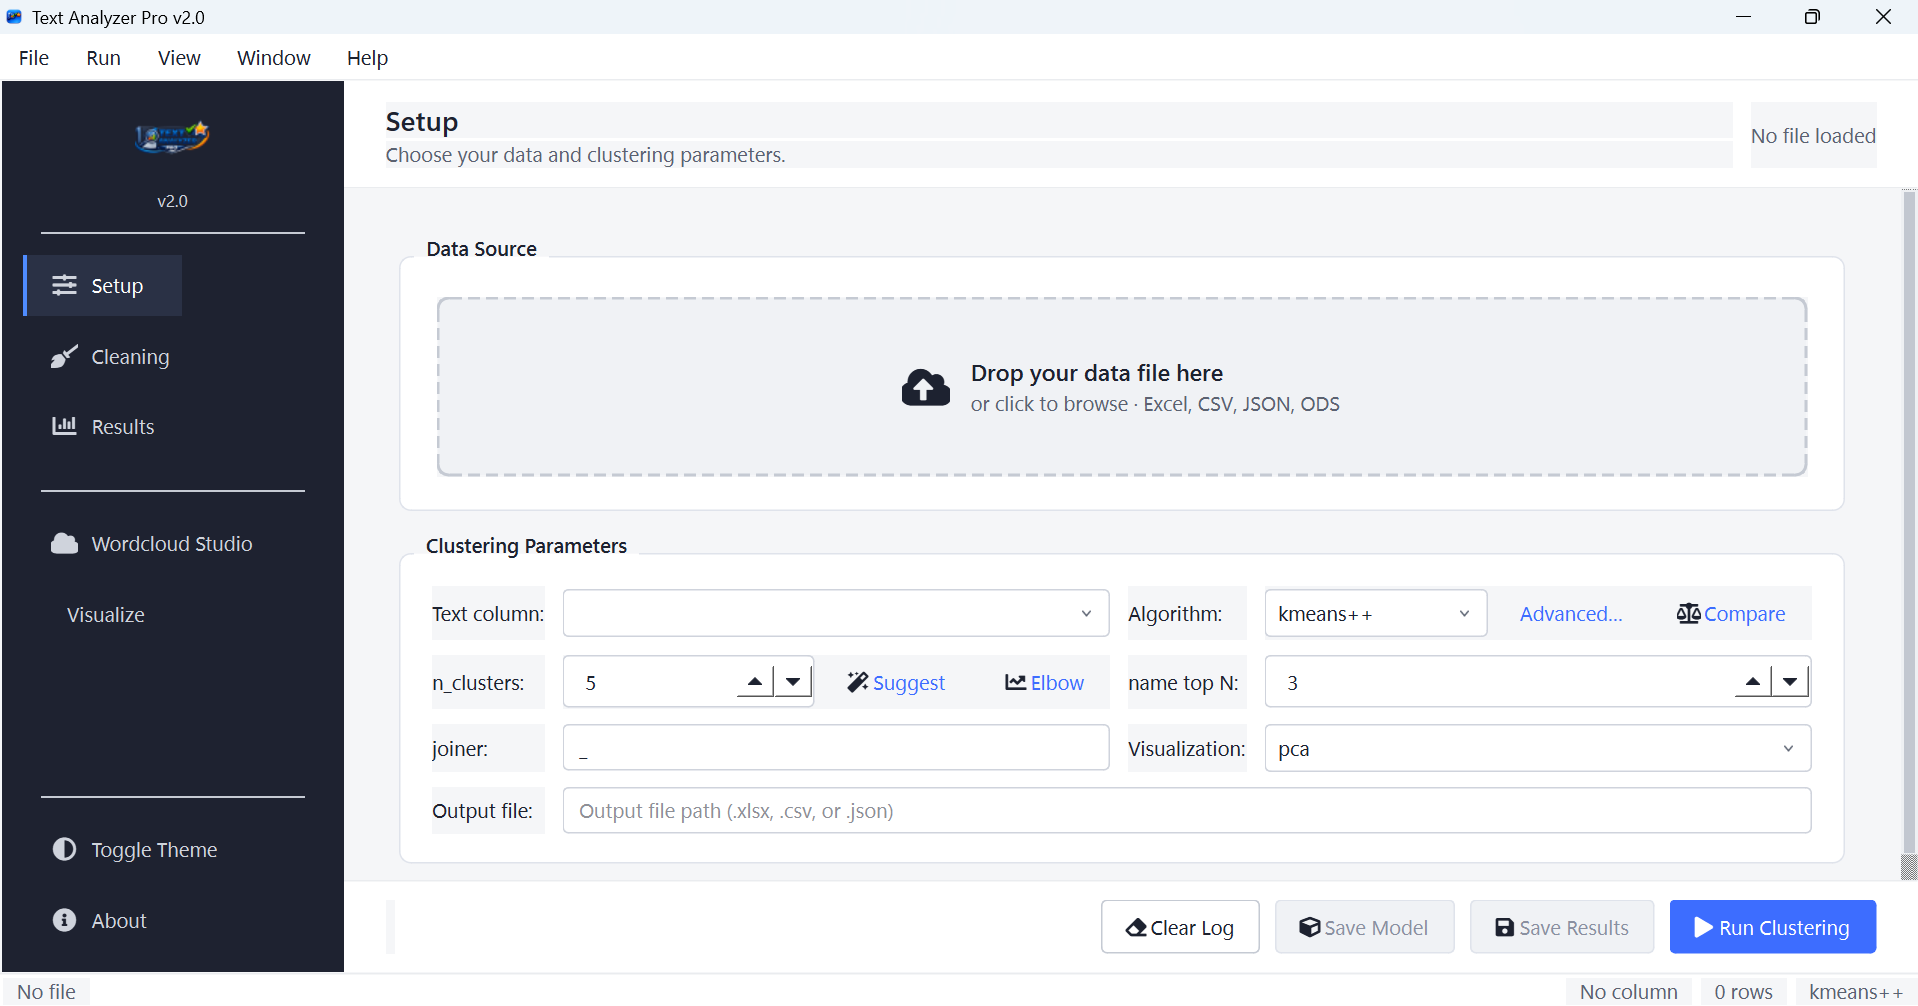
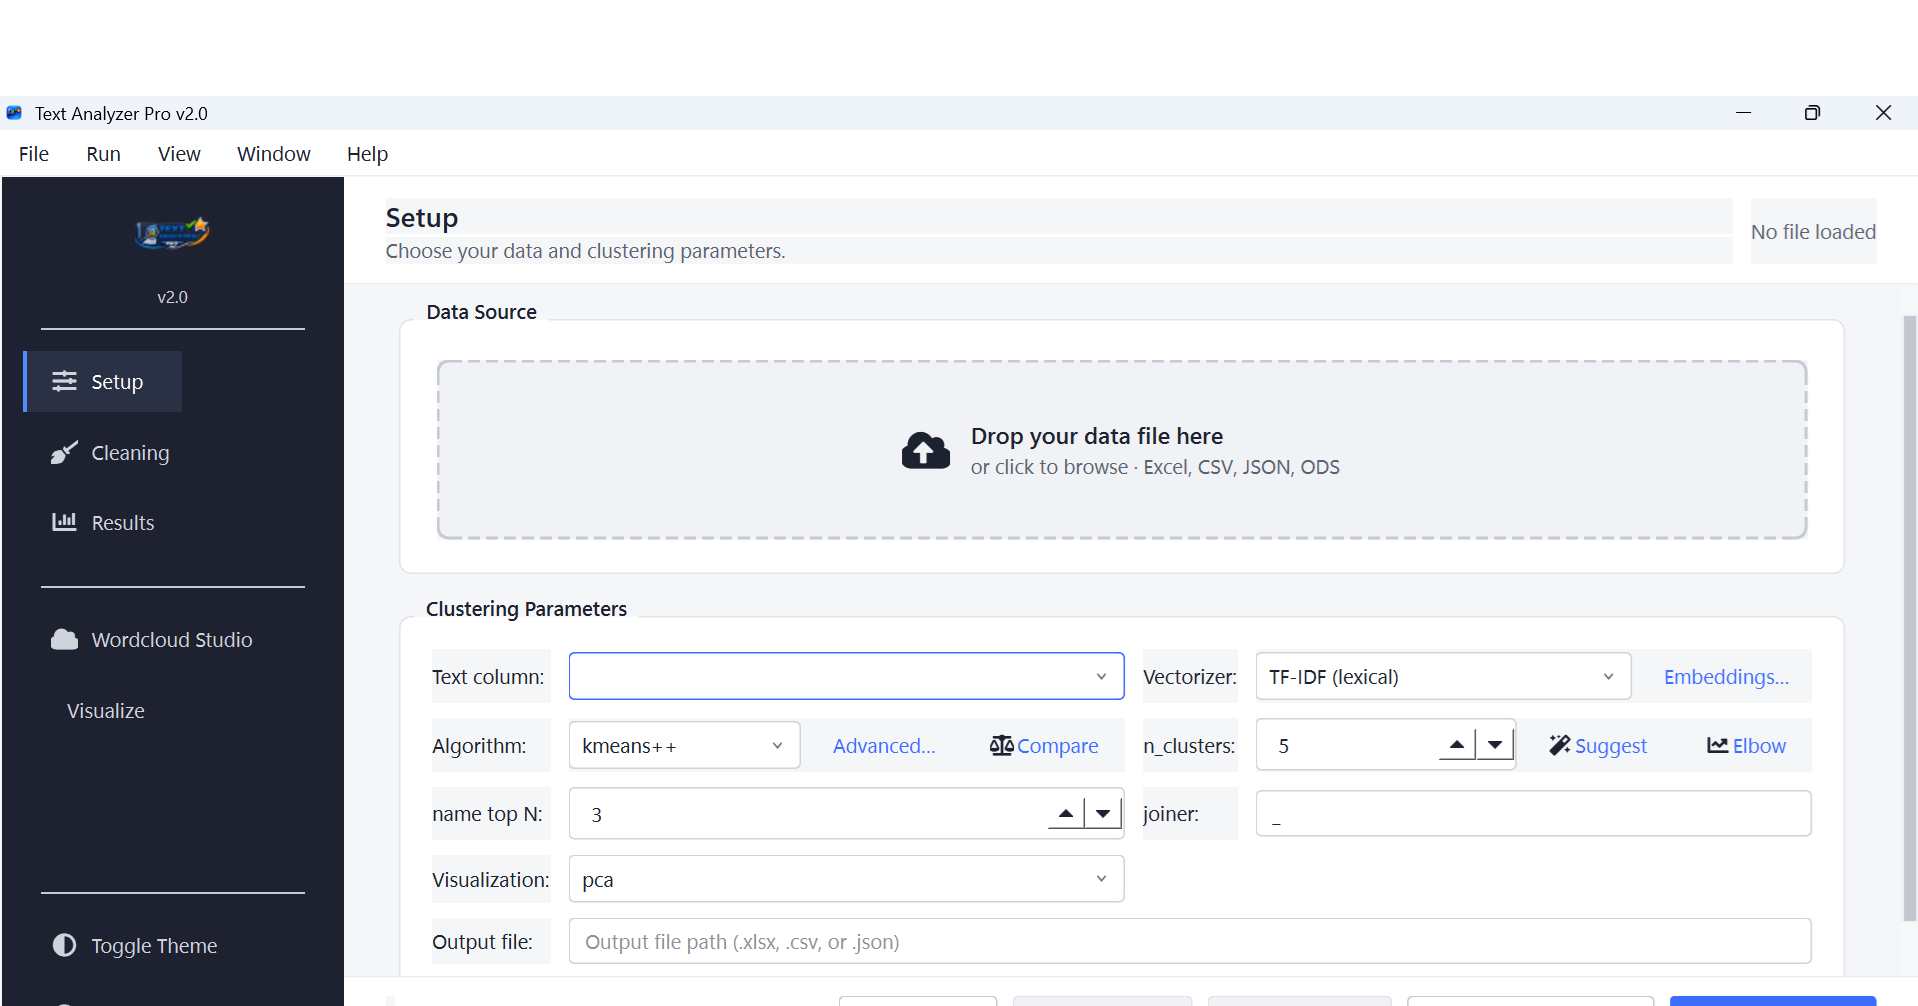
refresh setup screenshot + bump test badge
Updated screenshot to show the new Vectorizer combo, Embeddings…
dialog, and Run Categorization button. Tests badge: 116 → 187.

diff --git a/README.md b/README.md
@@ -1,6 +1,6 @@
 # Text Analyzer Pro
 
-[![Tests](https://img.shields.io/badge/tests-116%20passing-brightgreen)]() [![Python](https://img.shields.io/badge/python-3.10%2B-blue)]() [![PySide6](https://img.shields.io/badge/Qt-PySide6-success)]() [![License: MIT](https://img.shields.io/badge/License-MIT-yellow.svg)](LICENSE)
+[![Tests](https://img.shields.io/badge/tests-187%20passing-brightgreen)]() [![Python](https://img.shields.io/badge/python-3.10%2B-blue)]() [![PySide6](https://img.shields.io/badge/Qt-PySide6-success)]() [![License: MIT](https://img.shields.io/badge/License-MIT-yellow.svg)](LICENSE)
 
 Python desktop app for **text clustering and word-cloud analysis** of Excel, CSV, JSON, and ODS files using **TF-IDF**, **KMeans (k-means++)**, **HDBSCAN**, **DBSCAN**, **Agglomerative**, and a polished **Wordcloud Studio**.
 
@@ -8,7 +8,7 @@ Use it for customer-feedback clustering, survey-response analysis, support-ticke
 
 ---
 
-![Text Analyzer Pro v2.0 main window — Setup tab with the drag-and-drop dropzone, kmeans++ algorithm dropdown, Suggest / Elbow / Compare / Advanced TF-IDF buttons, and the sidebar navigation](assets/screenshot-setup.png)
+![Text Analyzer Pro v2.0 main window — Setup tab with the drag-and-drop dropzone, Vectorizer combo (TF-IDF / Embeddings) with the Advanced Embeddings… dialog, kmeans++ algorithm dropdown, Suggest / Elbow / Compare / Advanced TF-IDF buttons, sidebar navigation, and the Run Categorization + Run Clustering buttons in the action bar](assets/screenshot-setup.png)
 
 ---
 
